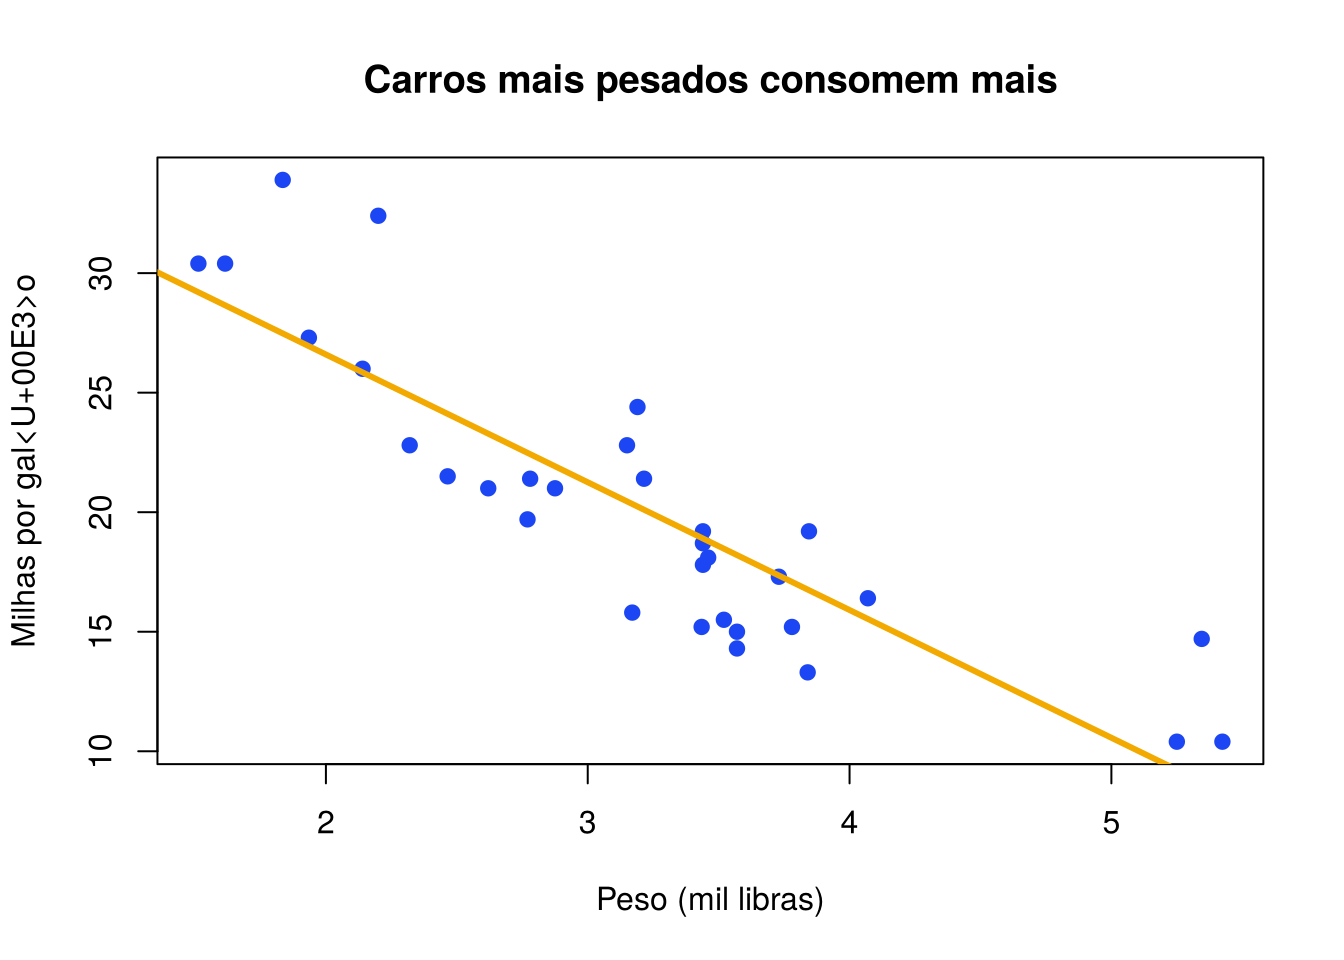
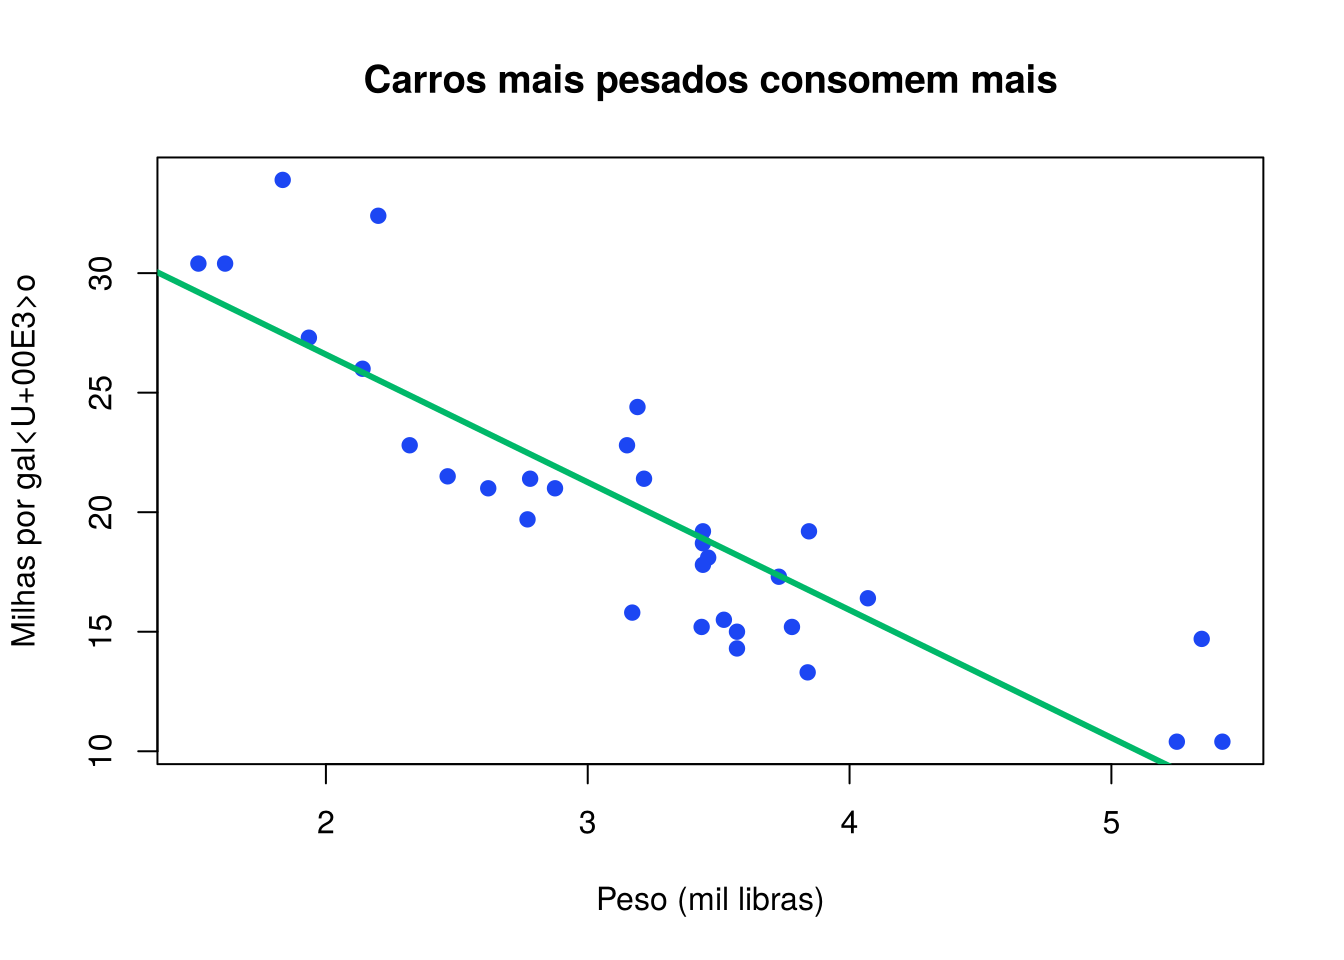
Aplica a identidade visual CFF (guia do projeto)
- _brand.yml e _brand-dark.yml: paleta azul/verde/amarelo, Lexend + Inter
- Símbolo CFF (anel C + setas F F) no menu e favicon, com versão reversa
- Modo escuro com seletor, seguindo o tema do sistema do leitor
- Capas das seções refeitas com as regras de grafismo do guia
- Destaque da página inicial com círculo amarelo e triângulo verde

Claude-Session: https://claude.ai/code/session_0111rXeDc5Vepz8Lq5sjQs3P

diff --git a/estilo.scss b/estilo.scss
@@ -1,53 +1,34 @@
 /*-- scss:defaults --*/
-@import url('https://fonts.googleapis.com/css2?family=Inter:wght@400;500;600&family=Merriweather:wght@400;700&display=swap');
-
-// ---- Paleta CFF (inspirada na ApexBrasil) ----
-$cff-azul:        #1C46F3;   // azul principal
-$cff-azul-escuro: #10298D;   // azul profundo
-$cff-fundo-suave: #F4F6FC;   // fundo de caixas e cartões
-$cff-ambar:       #F2A900;   // destaque (etiquetas, detalhes)
-
-$primary:    $cff-azul;
-$link-color: $cff-azul;
-$body-color: #1E2433;
-
-$navbar-bg:  $cff-azul-escuro;
-$navbar-fg:  #FFFFFF;
-$navbar-hl:  $cff-ambar;
-$footer-bg:  $cff-azul-escuro;
-$footer-fg:  #DDE3FF;
-
-// ---- Tipografia ----
-$font-family-sans-serif: "Inter", system-ui, sans-serif;
-$headings-font-family:   "Merriweather", Georgia, serif;
-$headings-color:         $cff-azul-escuro;
-$font-size-root:         17px;
-$line-height-base:       1.7;
+// Cores e fontes vêm do _brand.yml / _brand-dark.yml (identidade visual CFF).
+// Aqui ficam só ajustes de layout que funcionam nos temas claro e escuro.
+$cff-azul:    #1c46f3;
+$cff-verde:   #00b869;
+$cff-amarelo: #ffd200;
+$cff-noite:   #0b1233;
 
 /*-- scss:rules --*/
 
 // Menu superior
-.navbar { box-shadow: 0 2px 10px rgba(16, 41, 141, .25); }
-.navbar-title { font-family: $headings-font-family; font-weight: 700; letter-spacing: .04em; }
-.navbar .dropdown-menu { border-top: 3px solid $cff-ambar; }
+.navbar { box-shadow: 0 1px 0 rgba($body-color, .08); }
+.navbar-title { font-family: "Lexend", sans-serif; font-weight: 500; letter-spacing: .02em; }
+.navbar .dropdown-menu { border-top: 3px solid $cff-amarelo; }
 
-// Faixa de título em degradê
+// Faixa de título (posts e seções): azul, texto branco
 .quarto-title-banner {
-  background: linear-gradient(120deg, $cff-azul-escuro 0%, $cff-azul 100%);
+  background: linear-gradient(120deg, $cff-noite 0%, $cff-azul 100%);
   color: #fff;
   .quarto-title .title, .subtitle, .description { color: #fff; }
-  .quarto-category {
+  .quarto-categories .quarto-category {
     color: #fff !important;
-    background: rgba(255,255,255,.12);
-    border-color: $cff-ambar !important;
+    background: rgba(255,255,255,.1);
+    border-color: $cff-amarelo !important;
   }
 }
 
-// Etiquetas (categorias)
-.quarto-title-banner .quarto-categories .quarto-category { color: #fff !important; opacity: 1; }
+// Etiquetas (categorias) — nunca texto amarelo/verde sobre branco
 .quarto-category, .listing-category {
-  border: 1px solid $cff-ambar !important;
-  background: rgba($cff-ambar, .12);
+  border: 1px solid rgba($primary, .45) !important;
+  background: rgba($primary, .07);
   color: $body-color !important;
   border-radius: 999px;
   padding: .1rem .6rem;
@@ -57,21 +38,51 @@ $line-height-base:       1.7;
 .quarto-grid-item {
   border: none;
   border-radius: 12px;
-  background: $cff-fundo-suave;
+  background: mix($body-bg, $primary, 95%);
   transition: transform .15s ease, box-shadow .15s ease;
   overflow: hidden;
-  &:hover { transform: translateY(-3px); box-shadow: 0 8px 22px rgba(16, 41, 141, .15); }
-  .card-title { font-family: $headings-font-family; color: $cff-azul-escuro; }
+  &:hover { transform: translateY(-3px); box-shadow: 0 8px 22px rgba($primary, .18); }
+  .card-title { font-family: "Lexend", sans-serif; font-weight: 500; }
 }
 .quarto-post .thumbnail img { border-radius: 10px; }
 
 // Citações
 blockquote {
-  background: $cff-fundo-suave;
-  border-left: 4px solid $cff-azul;
+  background: mix($body-bg, $primary, 95%);
+  border-left: 4px solid $primary;
   padding: .8rem 1.2rem;
   border-radius: 0 8px 8px 0;
   font-style: italic;
+}
+
+// Página inicial: destaque de abertura (grafismo: círculo amarelo + triângulo verde para a frente)
+.hero {
+  position: relative;
+  overflow: hidden;
+  padding: 2.5rem 2rem;
+  margin: 1rem 0;
+  border-radius: 16px;
+  color: #fff;
+  background: linear-gradient(120deg, $cff-noite, $cff-azul);
+  &::after {
+    content: "";
+    position: absolute; right: -48px; top: -48px;
+    width: 192px; height: 192px;
+    background: $cff-amarelo;
+    border-radius: 50%;
+  }
+  &::before {
+    content: "";
+    position: absolute; right: 168px; bottom: -24px;
+    width: 0; height: 0;
+    border-top: 72px solid transparent;
+    border-bottom: 72px solid transparent;
+    border-left: 96px solid $cff-verde;   // triângulo apontando para a direita
+  }
+  > * { position: relative; z-index: 1; }
+  h1 { color: #fff; margin-top: 0; font-size: 2.2rem; }
+  p { font-size: 1.1rem; margin-bottom: 0; max-width: 46rem; }
+  .sigla { color: $cff-amarelo; font-weight: 600; letter-spacing: .12em; }
 }
 
 // Página inicial: cartões das linhas
@@ -85,45 +96,14 @@ blockquote {
   display: block;
   padding: 1.1rem 1.2rem;
   border-radius: 12px;
-  background: $cff-fundo-suave;
-  border-top: 4px solid $cff-azul;
+  background: mix($body-bg, $primary, 95%);
+  border-top: 4px solid $primary;
   text-decoration: none;
   color: $body-color;
   transition: transform .15s ease, box-shadow .15s ease;
-  &:hover { transform: translateY(-3px); box-shadow: 0 8px 22px rgba(16, 41, 141, .15); color: $body-color; }
-  strong { display: block; font-family: $headings-font-family; color: $cff-azul-escuro; margin-bottom: .3rem; }
+  &:hover { transform: translateY(-3px); box-shadow: 0 8px 22px rgba($primary, .18); color: $body-color; }
+  strong { display: block; font-family: "Lexend", sans-serif; font-weight: 500; color: $primary; margin-bottom: .3rem; }
   span { font-size: .9rem; opacity: .85; }
 }
 
-// Destaque de abertura da página inicial
-.hero {
-  padding: 2.5rem 2rem;
-  margin: 1rem 0 1rem;
-  border-radius: 16px;
-  color: #fff;
-  position: relative;
-  overflow: hidden;
-  background: linear-gradient(120deg, $cff-azul-escuro, $cff-azul);
-  &::after {               // detalhe geométrico decorativo
-    content: "";
-    position: absolute; right: -40px; top: -40px;
-    width: 220px; height: 220px;
-    border: 28px solid rgba($cff-ambar, .85);
-    border-radius: 50%;
-  }
-  &::before {
-    content: "";
-    position: absolute; right: 120px; bottom: -60px;
-    width: 140px; height: 140px;
-    background: rgba(255,255,255,.12);
-    transform: rotate(45deg);
-  }
-  > * { position: relative; z-index: 1; }
-  h1 { color: #fff; margin-top: 0; font-size: 2.2rem; }
-  p { font-size: 1.1rem; margin-bottom: 0; opacity: .95; }
-  .sigla { color: $cff-ambar; font-weight: 700; letter-spacing: .1em; }
-}
-
-// Rodapé
 .nav-footer { font-size: .9rem; }
-.nav-footer a { color: #fff; }

diff --git a/cff.css b/cff.css
@@ -1,0 +1,4 @@
+/* CFF — troca o logo do menu para a versão reversa no modo escuro */
+body.quarto-dark .navbar-logo {
+  content: url("logo/cff-mark-reverse.svg");
+}

diff --git a/README.md b/README.md
@@ -17,13 +17,15 @@ Blog pessoal de César Ciuffo, feito com [Quarto](https://quarto.org) e publicad
 | Arquivo / pasta | Para que serve |
 |---|---|
 | `_quarto.yml` | configurações: título, menu, links, tema |
-| `estilo.scss` | cores e fontes (paleta azul ApexBrasil + âmbar) |
+| `_brand.yml` / `_brand-dark.yml` | identidade visual CFF: cores, fontes e logo (temas claro e escuro) |
+| `estilo.scss` | ajustes de layout (faixas, cartões, destaque da página inicial) |
+| `cff.css` e `logo/` | símbolo CFF e troca do logo no modo escuro |
 | `index.qmd` | página inicial |
 | `about.qmd` | página "Sobre" |
 | `publicacoes.qmd` | lista de artigos publicados |
 | `<seção>/index.qmd` | página de listagem de cada seção |
 | `<seção>/_metadata.yml` | autor e capa padrão dos posts da seção |
-| `imagens/` | logo, favicon e capas das seções |
+| `imagens/` | capas das seções e foto da página Sobre |
 | `_freeze/` | resultados já calculados dos códigos R (não apague) |
 | `.github/workflows/publicar.yml` | publicação automática |
 
